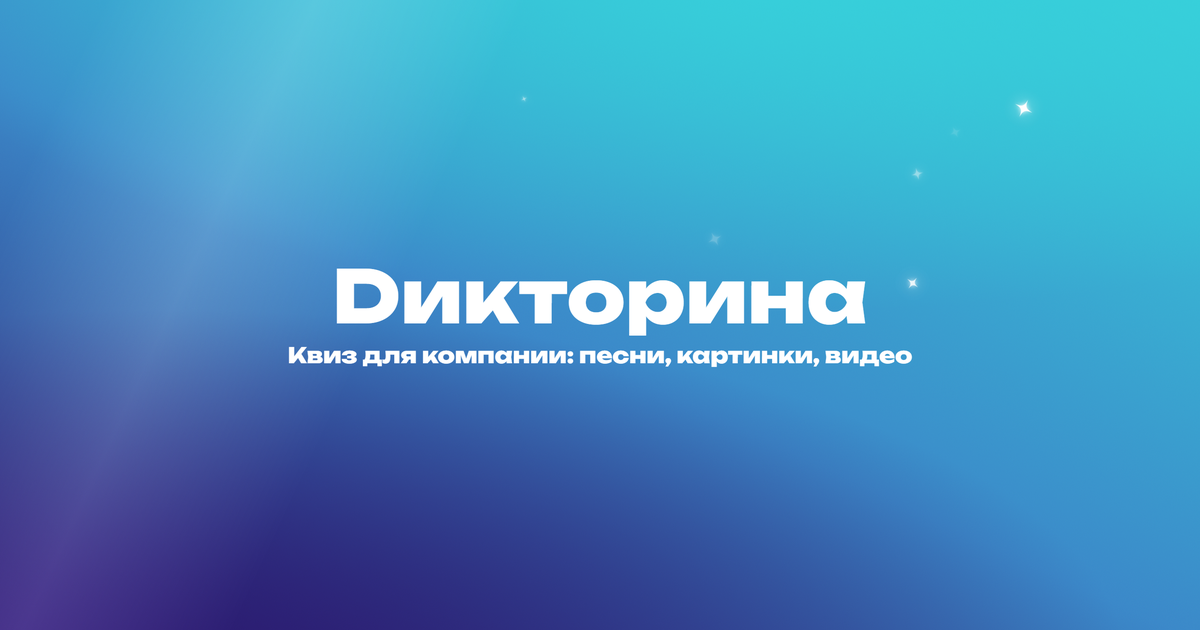
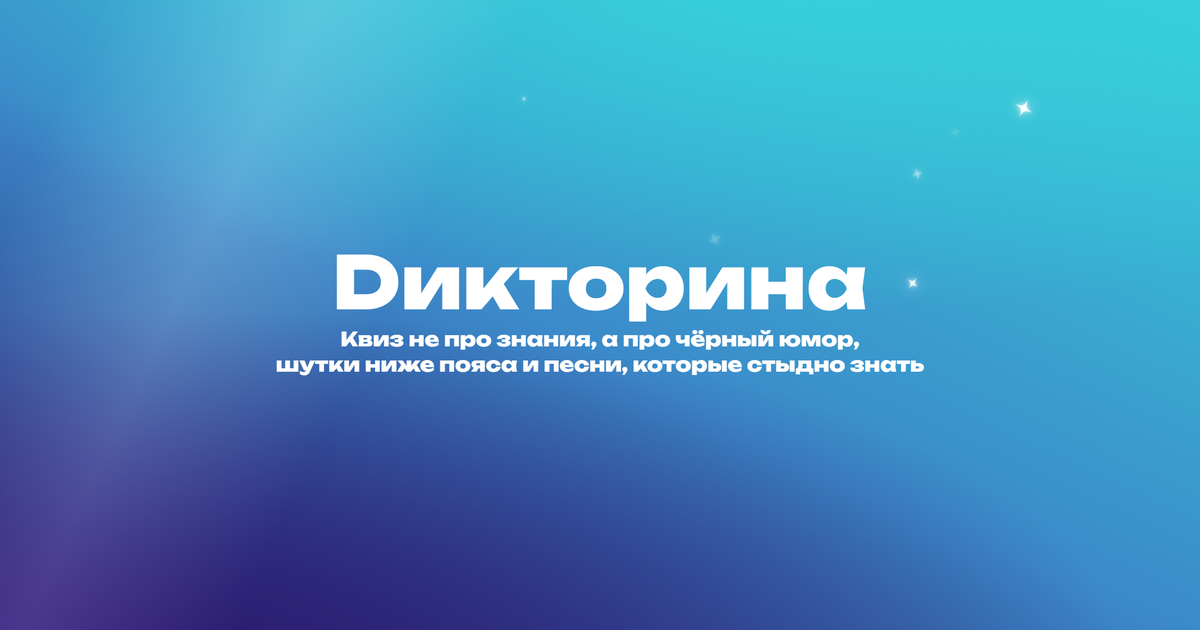
feat: тон «не про знания, а про чёрный юмор» — шапка YouTube, лендинг, бот

Changed region(s): [[0.2158, 0.3921, 0.7708, 0.6032]]

diff --git a/docs/index.html b/docs/index.html
@@ -4,9 +4,9 @@
 <meta charset="utf-8">
 <meta name="viewport" content="width=device-width, initial-scale=1, viewport-fit=cover">
 <title>Dикторина — квиз для компании</title>
-<meta name="description" content="Квиз для компании: угадай песню, картинку, видео. Наберём 1000 игроков — сделаем игру и позовём тебя первым.">
+<meta name="description" content="Квиз не про знания, а про чёрный юмор, шутки ниже пояса и песни, которые стыдно знать. Наберём 1000 игроков — сделаем игру.">
 <meta property="og:title" content="Dикторина — квиз для компании">
-<meta property="og:description" content="Наберём 1000 игроков — сделаем игру. Записывайся — позовём первым.">
+<meta property="og:description" content="Квиз не про знания, а про чёрный юмор и шутки ниже пояса. Наберём 1000 игроков — сделаем игру.">
 <meta property="og:image" content="https://mryahoopryanichek.github.io/dicktorina/og.png">
 <meta property="og:type" content="website">
 <meta name="theme-color" content="#2A1A6E">
@@ -107,7 +107,7 @@
 <main>
   <div class="logo">Dикторина</div>
   <h1>Поиграл бы в такую викторину?</h1>
-  <p class="lead">Квиз для компании: угадай песню, картинку, видео. <b>Наберём 1000 игроков — сделаем игру</b> и позовём тебя первым.</p>
+  <p class="lead">Квиз не про знания, а про чёрный юмор, шутки ниже пояса и песни, которые стыдно знать. <b>Наберём 1000 игроков — сделаем игру</b> и позовём тебя первым.</p>
 
   <div class="count" id="count" hidden>
     <span>Уже записались: <b id="n">0</b> из <span id="goal">1000</span></span>
@@ -121,7 +121,7 @@
   <p class="hint">Откроется бот @Dicktorinabot — нажми «Старт». Мы напишем, когда игра будет готова.</p>
 
   <ul>
-    <li>Раунды с песнями, картинками и видео</li>
+    <li>Песни, картинки, видео — и вопросы, за которые стыдно</li>
     <li>Играть компанией: телевизор — экран, телефоны — пульты</li>
     <li>Новые вопросы — в TikTok, Reels и Shorts</li>
   </ul>

diff --git a/src/profile/Banner.tsx b/src/profile/Banner.tsx
@@ -13,7 +13,8 @@ export const BANNER_VARIANTS = [
   {kind: 'word', palette: 'night'},
 ] as const satisfies readonly {kind: 'shaft' | 'word'; palette: PaletteId}[];
 
-const TAGLINE = 'Квиз для компании: песни, картинки, видео';
+// Тон — как в описании профиля (решающий, 2026-11-07)
+const TAGLINE = ['Квиз не про знания, а про чёрный юмор,', 'шутки ниже пояса и песни, которые стыдно знать'];
 
 export const Banner = ({kind, palette}: {kind: 'shaft' | 'word'; palette: PaletteId}) => {
   const ready = useFontReady();
@@ -22,9 +23,9 @@ export const Banner = ({kind, palette}: {kind: 'shaft' | 'word'; palette: Palett
   const size = ready ? Math.floor((100 * 1150) / textWidth(word, 100)) : 0;
   const wordW = ready ? textWidth(word, size) : 0;
   const left = (BANNER.width - wordW) / 2;
-  const tag = ready ? Math.min(46, Math.floor((100 * 1380) / textWidth(TAGLINE, 100))) : 0;
+  const tag = ready ? Math.min(44, Math.floor((100 * 1400) / Math.max(...TAGLINE.map((l) => textWidth(l, 100))))) : 0;
   const eq = ready ? Math.floor((left - 110 - textWidth('8', size)) / textWidth('=', size)) : 0;
-  const cy = BANNER.height / 2 - 40;
+  const cy = BANNER.height / 2 - 70; // слово и две строки подписи — в зоне телефона 1546×423
 
   return (
     <AbsoluteFill>
@@ -41,8 +42,10 @@ export const Banner = ({kind, palette}: {kind: 'shaft' | 'word'; palette: Palett
           <div style={{position: 'absolute', left, top: cy, transform: 'translateY(-50%)', fontSize: size, lineHeight: 1}}>
             {word}
           </div>
-          <div style={{position: 'absolute', left: 0, right: 0, top: cy + size * 0.62, textAlign: 'center', fontSize: tag}}>
-            {TAGLINE}
+          <div style={{position: 'absolute', left: 0, right: 0, top: cy + size * 0.6, textAlign: 'center', fontSize: tag, lineHeight: 1.3}}>
+            {TAGLINE.map((l) => (
+              <div key={l}>{l}</div>
+            ))}
           </div>
         </AbsoluteFill>
       )}

diff --git a/bot/src/index.ts b/bot/src/index.ts
@@ -45,7 +45,7 @@ const send = (env: Env, chatId: number, text: string, buttons: Button[][] = []) 
 
 function buttons(env: Env): Button[][] {
   const invite = `https://t.me/${env.BOT_USERNAME}?start=fr`;
-  const pitch = 'Записываюсь на Dикторину — квиз для компании. Наберём 1000 игроков — сделают. Го со мной!';
+  const pitch = 'Записываюсь на Dикторину — квиз не про знания, а про чёрный юмор и шутки ниже пояса. Наберём 1000 игроков — сделают. Го со мной!';
   const share = `https://t.me/share/url?url=${encodeURIComponent(invite)}&text=${encodeURIComponent(pitch)}`;
   const rows: Button[][] = [];
   if (env.GROUP_LINK) rows.push([{text: 'Вступить в группу', url: env.GROUP_LINK}]);

diff --git a/CLAUDE.md b/CLAUDE.md
@@ -22,7 +22,7 @@
 | Что | Решение |
 |---|---|
 | Название | «Dикторина»: латинская D + кириллица «икторина» |
-| Профиль на площадках | имя «Dictor Inna», ник **`dictor_inna`** везде; в описании профиля — «Дикторина» кириллицей, иначе поиск не находит. Заведены: TikTok — https://www.tiktok.com/@dictor_inna; Instagram — https://www.instagram.com/dictor_inna/; YouTube — https://www.youtube.com/channel/UCQ3SV7YPvIounF1oOhLwRlg |
+| Профиль на площадках | имя «Dictor Inna», ник **`dictor_inna`** везде; в описании профиля — «Дикторина» кириллицей, иначе поиск не находит. Описание (решающий, 2026-11-07): «Дикторина — квиз не про знания, а про чёрный юмор, шутки ниже пояса и песни, которые стыдно знать. Наберём 1000 игроков — сделаем игру 👇»; в TikTok — короче, с `@Dicktorinabot`. Тон — намёки, не прямые слова: «пенис», «член» в описаниях ловят фильтры. Тот же тон — на лендинге, в шапке YouTube, в описании бота. Заведены: TikTok — https://www.tiktok.com/@dictor_inna; Instagram — https://www.instagram.com/dictor_inna/; YouTube — https://www.youtube.com/channel/UCQ3SV7YPvIounF1oOhLwRlg |
 | Площадки | TikTok, YouTube Shorts, Instagram Reels. Ссылки в описаниях роликов не кликаются — трафик только из профиля; принято |
 | Музыка и видео | чужие треки и кадры в роликах — риск принят: «кинут страйк — переделаем» |
 | Что не брать в ролики | раунд 9 и треки с откровенными названиями: за такое площадки банят аккаунт, а не ролик (совет Claude, решающий не возражал) |
